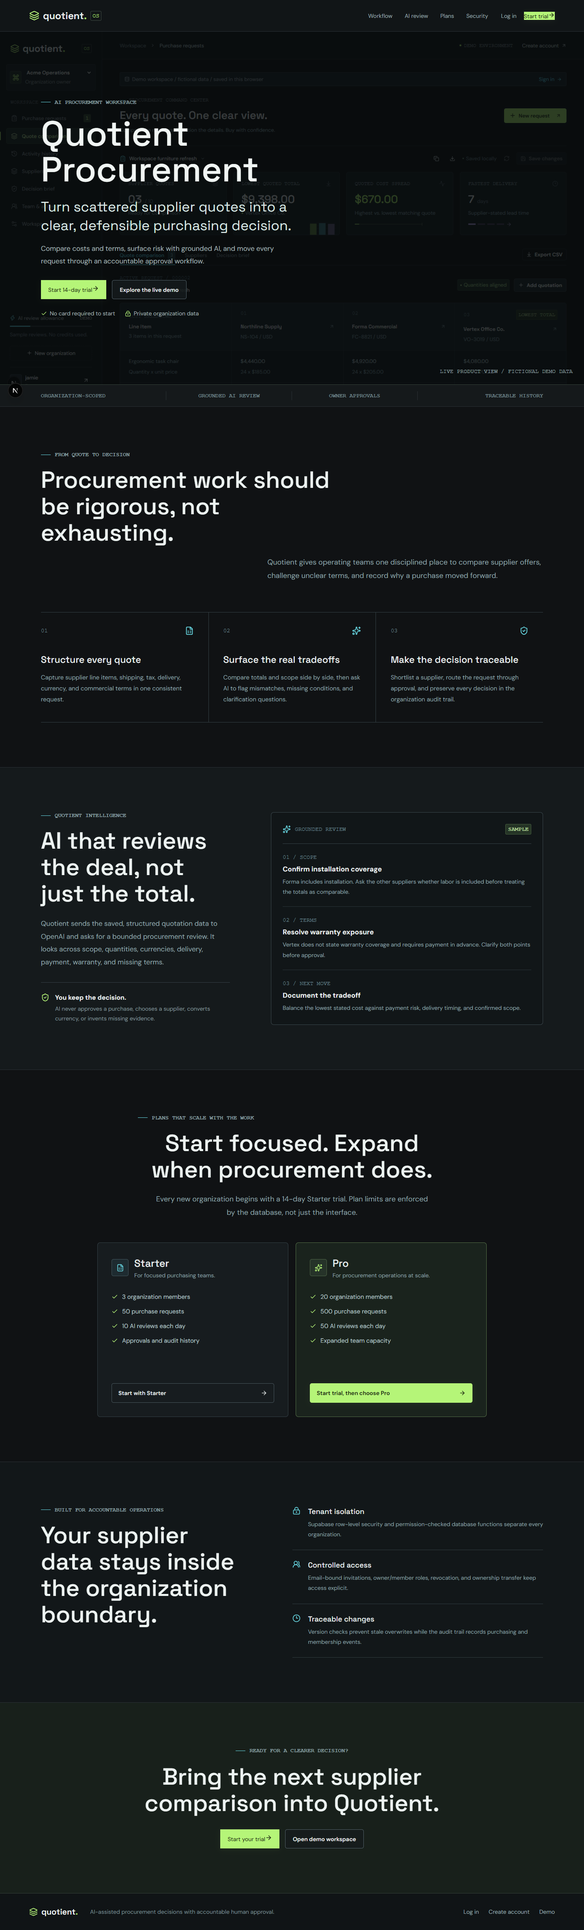
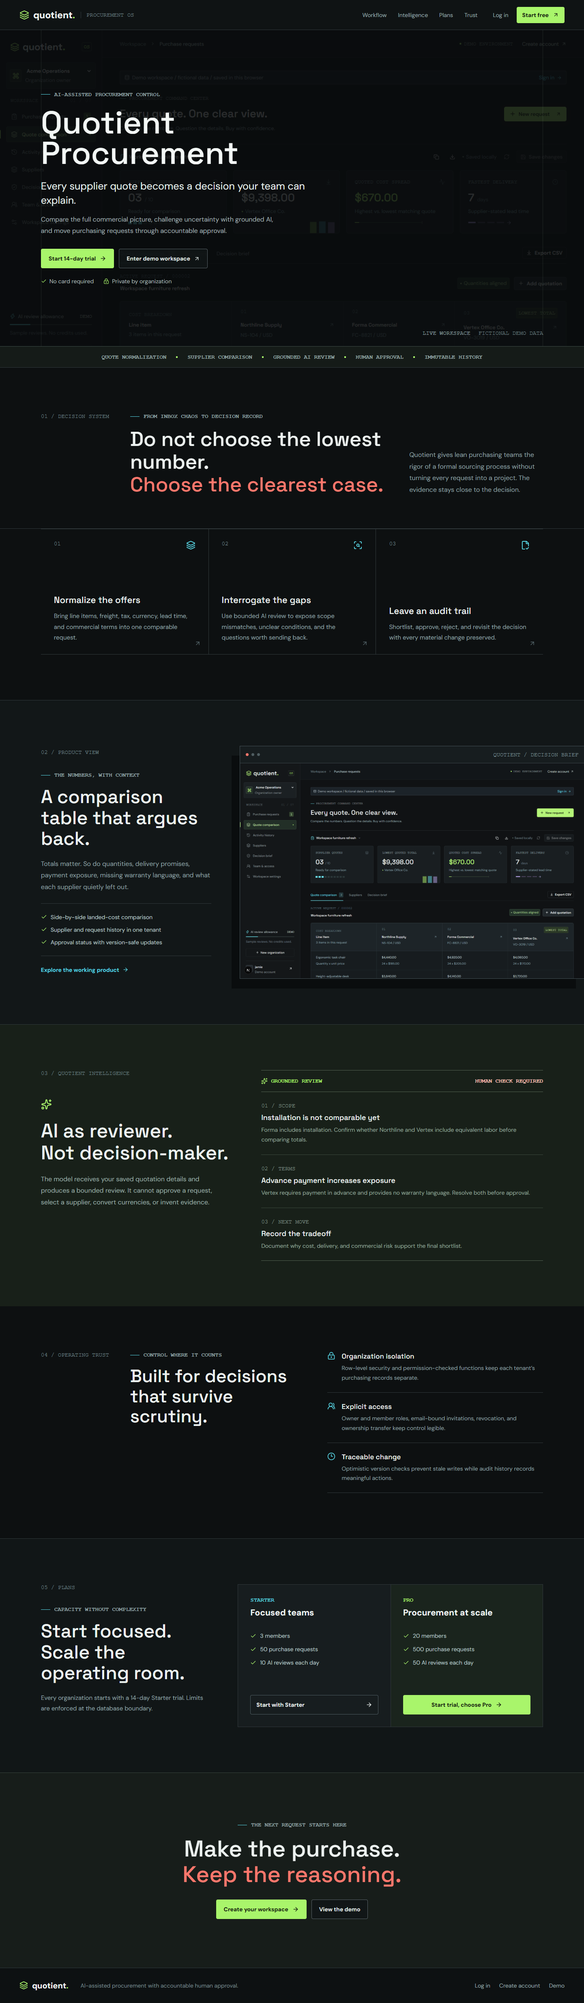
fix

diff --git a/app/style.css b/app/style.css
@@ -22,4 +22,16 @@ dialog{width:calc(100% - 32px);max-width:700px;max-height:90dvh;overflow:auto;bo
  button,input,select,textarea,label,small,.eyebrow,.brand-tag,.brand-mark,.org-selector select,.org-selector small,.nav-label,.nav-label>span,.sidebar nav button,.mobile-drawer nav button,.sidebar nav b,.mobile-drawer nav b,.quota-line,.quota-line b,.sidebar-bottom>p,.new-org,.avatar,.avatar.compact,.account-row strong,.account-row small,.breadcrumbs,.live-indicator,.top-link,.demo-banner,.page-subtitle,.page-heading>.primary,.request-selector select,.save-status,.save-button,.metric-label,.metric>small,.metric>strong>span,.section-tabs>button,.section-tabs>button>span,.section-bar>.subtle,.comparison-heading .eyebrow,.comparison-heading button,.badge,.table-eyebrow,th:first-child>strong,th small,.best,.supplier-index>span:first-child,.supplier-link,td,td small,td:first-child>strong,.cost-row>td,.total-row>td:first-child,.terms-cell,.missing,.shortlist,.table-note,.ai-section-heading .eyebrow,.ai-model,.ai-button,.ai-checks>div>span,.ai-checks h3,.ai-checks p,.ai-output,.review-disclaimer,.provider-disclosure,.app-footer,.list-heading h2 span,.search-field input,.supplier-list h3,.member-list h3,.supplier-list small,.member-list small,.decision-section p:not(.eyebrow),.decision-section .subtle,.section-description,.access-note h3,.access-note p,.settings-list>div,.settings-list dd.mono,.settings-actions button,.empty-state p,.empty-state>.eyebrow,.alert,.busy-status,.modal-heading .eyebrow,.file-button,.hint,.item-head,.item-input input,.modal-footer,.modal-footer>.primary,.invite-links,.text-link,.auth-kicker,.auth-subtitle,.auth-tabs a,.auth-form>label,.auth-fields>label,.input-icon input,.forgot,.auth-submit,.auth-security,.back-link,.connection-note,.auth-footer,.auth-footer>span:last-child,.resend-button,.recovery-link,.status-filter,.status-filter select,.request-list small,.approval-panel p,.approval-panel blockquote,.approval-actions button,.audit-trail strong,.audit-trail p,.audit-trail small,.pending-invitations article strong,.pending-invitations small,.account-settings form>label,.account-settings form>.text-link,.member-list article>.subtle,.directory-toolbar>small,.billing-banner,.plan-title p,.plan-card li,.billing-meta{font-size:14px!important}
  .sidebar{width:280px}.app-main{margin-left:280px;width:calc(100% - 280px)}.sidebar nav button.nav-active:before{left:-18px}.sidebar-bottom{padding-top:30px}.org-selector{margin-top:26px;margin-bottom:24px}.account-row{align-items:flex-start}.topbar{min-height:76px;height:auto;padding-top:12px;padding-bottom:12px}.table-wrap table{min-width:960px}.badge,.best,.ai-model{white-space:normal;line-height:1.35}.app-footer{line-height:1.5}
 }
+
+/* Public homepage */
+.lp{--lp-bg:#0d1011;--lp-panel:#14191b;--lp-line:#30383b;--lp-muted:#91a1a5;--lp-lime:#a9f56b;--lp-cyan:#58d8e7;--lp-coral:#ff776c;background:var(--lp-bg);color:#edf3f1;min-height:100vh;overflow:hidden}.lp a{text-decoration:none}.lp-nav{height:74px;display:flex;align-items:center;padding:0 48px;border-bottom:1px solid var(--lp-line);background:#0f1314;position:relative;z-index:5}.lp-brand{display:flex;align-items:center;gap:10px;color:#f4f8f7}.lp-brand>svg{color:var(--lp-lime)}.lp-brand strong{font-size:23px}.lp-brand strong span{color:var(--lp-lime)}.lp-brand small{font:14px 'Courier New',monospace;color:#718287;border-left:1px solid var(--lp-line);padding-left:13px;margin-left:4px}.lp-links{display:flex;gap:28px;margin-left:auto}.lp-links a,.lp-nav-actions>a:first-child{font-size:14px;color:#9aabad}.lp-links a:hover,.lp-nav-actions>a:first-child:hover{color:#f5f8f7}.lp-nav-actions{display:flex;align-items:center;gap:20px;margin-left:38px}.lp-button{display:inline-flex;align-items:center;justify-content:center;gap:10px;min-height:48px;padding:12px 18px;border:1px solid var(--lp-lime);border-radius:4px;background:var(--lp-lime);color:#10170c;font-size:14px;font-weight:700}.lp-button:hover{background:#baff83}.lp-button-small{min-height:40px;padding:9px 13px}.lp-ghost{display:inline-flex;align-items:center;justify-content:center;gap:9px;min-height:48px;padding:12px 18px;border:1px solid #576166;border-radius:4px;background:#101516d9;color:#e3ebea;font-size:14px;font-weight:650}.lp-ghost:hover{color:var(--lp-cyan);border-color:var(--lp-cyan)}
+.lp-hero{height:calc(100svh - 116px);min-height:620px;max-height:780px;position:relative;display:flex;align-items:center;padding:54px max(48px,7vw);background:url('/quotient-workspace.png') center top/cover no-repeat;border-bottom:1px solid #3c4944}.lp-hero-shade{position:absolute;inset:0;background:#080b0cd9}.lp-hero-grid{position:absolute;inset:0 max(48px,7vw);border-left:1px solid #9bb6ab24;border-right:1px solid #9bb6ab24;pointer-events:none}.lp-hero-copy{position:relative;z-index:1;width:690px;max-width:72%}.lp-overline{display:flex;align-items:center;gap:10px;color:#98aaad;font:600 14px 'Courier New',monospace}.lp-overline>span{width:23px;height:1px;background:var(--lp-cyan)}.lp-hero h1{font-size:78px;line-height:.96;letter-spacing:0;color:#f3f8f6;margin-top:24px}.lp-manifesto{font-size:25px;line-height:1.4;color:#e4eeeb;margin-top:27px;max-width:660px}.lp-support{font-size:16px;line-height:1.75;color:#a2b2b5;margin-top:16px;max-width:590px}.lp-actions{display:flex;align-items:center;gap:12px;flex-wrap:wrap;margin-top:30px}.lp-hero-notes{display:flex;gap:24px;flex-wrap:wrap;margin-top:23px}.lp-hero-notes span{display:flex;align-items:center;gap:7px;color:#a7b7b7;font-size:14px}.lp-hero-notes svg{color:var(--lp-lime)}.lp-hero-caption{position:absolute;z-index:1;right:max(48px,7vw);bottom:24px;display:flex;gap:20px;font:14px 'Courier New',monospace;color:#95a7a9}.lp-hero-caption span+span{color:#6f8084}.lp-ticker{height:52px;display:flex;align-items:center;justify-content:center;gap:24px;padding:0 30px;background:#151b18;border-bottom:1px solid var(--lp-line);white-space:nowrap;overflow:hidden}.lp-ticker span{font:600 14px 'Courier New',monospace;color:#9badac}.lp-ticker i{width:4px;height:4px;background:var(--lp-lime)}
+.lp-section-index{font:14px 'Courier New',monospace;color:#71858a}.lp-statement{display:grid;grid-template-columns:170px minmax(0,1fr) 330px;gap:50px;padding:112px max(48px,7vw) 80px;border-bottom:1px solid var(--lp-line)}.lp-statement h2,.lp-product h2,.lp-intelligence h2,.lp-proof h2,.lp-pricing h2,.lp-close h2{font-size:50px;line-height:1.12;letter-spacing:0;margin-top:20px}.lp h2 em{font-style:normal;color:var(--lp-coral)}.lp-statement>p:last-child{align-self:end;font-size:16px;line-height:1.8;color:var(--lp-muted)}.lp-decisions{display:grid;grid-template-columns:repeat(3,1fr);padding:0 max(48px,7vw) 112px}.lp-decisions article{min-height:310px;position:relative;display:flex;flex-direction:column;justify-content:space-between;padding:28px 32px;border-bottom:1px solid var(--lp-line);border-top:1px solid var(--lp-line)}.lp-decisions article+article{border-left:1px solid var(--lp-line)}.lp-decision-head{display:flex;justify-content:space-between;color:#73888d;font:14px 'Courier New',monospace}.lp-decision-head svg{color:var(--lp-cyan)}.lp-decisions h3{font-size:22px}.lp-decisions p{font-size:15px;line-height:1.75;color:var(--lp-muted);margin-top:13px;max-width:360px}.lp-corner{position:absolute;right:18px;bottom:18px;color:#526267}
+.lp-product{display:grid;grid-template-columns:420px minmax(0,1fr);gap:70px;padding:112px 0 112px max(48px,7vw);border-top:1px solid var(--lp-line);border-bottom:1px solid var(--lp-line);background:#121718}.lp-product-copy{padding-top:8px}.lp-product-copy>.lp-overline{margin-top:40px}.lp-product h2{font-size:46px}.lp-product-copy>p:not(.lp-overline){font-size:16px;line-height:1.8;color:var(--lp-muted);margin-top:22px}.lp-product ul{list-style:none;padding:24px 0;margin:25px 0;border-top:1px solid var(--lp-line);border-bottom:1px solid var(--lp-line);display:grid;gap:13px}.lp-product li{display:flex;align-items:center;gap:9px;font-size:14px;color:#bdc9c9}.lp-product li svg{color:var(--lp-lime)}.lp-text-link{display:inline-flex;align-items:center;gap:8px;color:var(--lp-cyan);font-size:14px;font-weight:650}.lp-product-window{align-self:center;overflow:hidden;border:1px solid #445055;border-right:0;background:#0b0e0f;box-shadow:-20px 24px 0 #0a0d0e}.lp-window-bar{height:42px;display:flex;align-items:center;gap:7px;padding:0 14px;border-bottom:1px solid #394347;background:#171d1f}.lp-window-bar>span{width:7px;height:7px;border-radius:50%;background:#4f5d61}.lp-window-bar>span:first-child{background:var(--lp-coral)}.lp-window-bar b{margin-left:auto;font:14px 'Courier New',monospace;color:#7d9196}.lp-product-window img{display:block;width:100%;height:auto;min-height:420px;object-fit:cover;object-position:left top}
+.lp-intelligence{display:grid;grid-template-columns:minmax(320px,.8fr) minmax(520px,1.2fr);gap:80px;padding:112px max(48px,7vw);background:#182019}.lp-ai-lead>svg{color:var(--lp-lime);margin-top:55px}.lp-ai-lead h2{font-size:48px;margin-top:21px}.lp-ai-lead>p{font-size:16px;line-height:1.8;color:#9fb0aa;margin-top:24px;max-width:520px}.lp-review{border-top:1px solid #526151;border-bottom:1px solid #526151}.lp-review-top{display:flex;align-items:center;justify-content:space-between;padding:18px 0;border-bottom:1px solid #526151}.lp-review-top span{display:flex;align-items:center;gap:8px;font:600 14px 'Courier New',monospace;color:var(--lp-lime)}.lp-review-top b{font:600 14px 'Courier New',monospace;color:#ffc0ba}.lp-review article{padding:24px 0;border-bottom:1px solid #39473b}.lp-review article:last-child{border:0}.lp-review article>span{font:14px 'Courier New',monospace;color:#80958a}.lp-review h3{font-size:18px;margin-top:9px}.lp-review p{font-size:14px;line-height:1.7;color:#96a89f;margin-top:8px}
+.lp-proof{display:grid;grid-template-columns:170px minmax(0,.9fr) minmax(400px,1.1fr);gap:50px;padding:112px max(48px,7vw);border-bottom:1px solid var(--lp-line)}.lp-proof-title h2{font-size:44px}.lp-proof-list article{display:flex;gap:16px;padding:23px 0;border-bottom:1px solid var(--lp-line)}.lp-proof-list article:first-child{padding-top:0}.lp-proof-list svg{color:var(--lp-cyan);flex-shrink:0}.lp-proof-list h3{font-size:17px}.lp-proof-list p{font-size:14px;line-height:1.7;color:var(--lp-muted);margin-top:7px}
+.lp-pricing{display:grid;grid-template-columns:minmax(330px,.7fr) minmax(540px,1.3fr);gap:80px;padding:112px max(48px,7vw);background:#111617}.lp-pricing-head>.lp-overline{margin-top:38px}.lp-pricing h2{font-size:46px}.lp-pricing-head>p:last-child{font-size:15px;line-height:1.75;color:var(--lp-muted);margin-top:22px;max-width:460px}.lp-price-grid{display:grid;grid-template-columns:1fr 1fr;border:1px solid var(--lp-line)}.lp-price-grid article{display:flex;flex-direction:column;padding:30px;min-height:350px;background:#171d1f}.lp-price-grid article+article{border-left:1px solid var(--lp-line)}.lp-price-grid .lp-price-pro{background:#1a241d}.lp-price-name span{display:block;font:600 14px 'Courier New',monospace;color:var(--lp-cyan)}.lp-price-pro .lp-price-name span{color:var(--lp-lime)}.lp-price-name strong{display:block;font-size:21px;margin-top:9px}.lp-price-grid ul{list-style:none;padding:0;margin:34px 0;display:grid;gap:15px}.lp-price-grid li{display:flex;align-items:center;gap:9px;color:#b9c7c7;font-size:14px}.lp-price-grid li svg{color:var(--lp-lime)}.lp-plan-link{display:flex;align-items:center;justify-content:space-between;min-height:48px;padding:12px 14px;margin-top:auto;border:1px solid #4c5a5f;border-radius:4px;font-size:14px;font-weight:650}.lp-plan-link:hover{color:var(--lp-cyan);border-color:var(--lp-cyan)}.lp-price-grid .lp-button{margin-top:auto}
+.lp-close{text-align:center;padding:120px 24px;background:#171d1a;border-top:1px solid #37433b}.lp-close .lp-overline{justify-content:center}.lp-close h2{font-size:56px}.lp-close .lp-actions{justify-content:center}.lp-footer{display:flex;align-items:center;gap:30px;padding:30px 48px;border-top:1px solid var(--lp-line);background:#0d1112}.lp-footer .lp-brand strong{font-size:20px}.lp-footer p{flex:1;color:#7d8e92;font-size:14px}.lp-footer>div{display:flex;gap:22px}.lp-footer>div a{font-size:14px;color:#9aabad}.lp-footer>div a:hover{color:var(--lp-cyan)}
+@media(max-width:1000px){.lp-nav{padding:0 24px}.lp-links{display:none}.lp-nav-actions{margin-left:auto}.lp-hero{padding-left:40px;padding-right:40px}.lp-hero-grid{left:40px;right:40px}.lp-hero-copy{max-width:86%}.lp-statement{grid-template-columns:130px 1fr}.lp-statement>p:last-child{grid-column:2}.lp-product{grid-template-columns:1fr;padding-right:40px;padding-left:40px}.lp-product-copy{max-width:680px}.lp-product-window{border-right:1px solid #445055}.lp-intelligence,.lp-pricing{grid-template-columns:1fr}.lp-proof{grid-template-columns:130px 1fr}.lp-proof-list{grid-column:2}.lp-ticker{justify-content:flex-start}.lp-decisions{padding-left:40px;padding-right:40px}.lp-pricing,.lp-intelligence,.lp-proof,.lp-statement{padding-left:40px;padding-right:40px}}
+@media(max-width:700px){.lp-nav{height:68px;padding:0 18px}.lp-brand small,.lp-nav-actions>a:first-child{display:none}.lp-brand strong{font-size:21px}.lp-button-small{min-height:38px;padding:8px 11px}.lp-hero{height:690px;min-height:calc(100svh - 106px);padding:42px 20px;background-position:28% top}.lp-hero-shade{background:#080b0ce8}.lp-hero-grid{inset:0 20px}.lp-hero-copy{max-width:100%;width:100%}.lp-hero h1{font-size:49px}.lp-manifesto{font-size:21px}.lp-support{font-size:15px}.lp-actions{align-items:stretch;flex-direction:column}.lp-actions a{width:100%}.lp-hero-notes{gap:10px;flex-direction:column}.lp-hero-caption{display:none}.lp-ticker{height:46px;padding:0 20px;gap:18px}.lp-statement,.lp-proof{grid-template-columns:1fr;padding:76px 20px;gap:30px}.lp-statement>p:last-child,.lp-proof-list{grid-column:1}.lp-statement h2,.lp-product h2,.lp-intelligence h2,.lp-proof h2,.lp-pricing h2,.lp-close h2{font-size:34px}.lp-decisions{grid-template-columns:1fr;padding:0 20px 76px}.lp-decisions article{min-height:240px;padding:25px 0}.lp-decisions article+article{border-left:0;border-top:0}.lp-product{padding:76px 20px;gap:48px}.lp-product h2{font-size:34px}.lp-product-window{box-shadow:none}.lp-product-window img{min-height:300px;width:820px;max-width:none}.lp-window-bar b{display:none}.lp-intelligence,.lp-pricing{padding:76px 20px;gap:50px}.lp-ai-lead h2{font-size:36px}.lp-ai-lead>svg{margin-top:36px}.lp-review-top{align-items:flex-start;gap:12px;flex-direction:column}.lp-price-grid{grid-template-columns:1fr}.lp-price-grid article+article{border-left:0;border-top:1px solid var(--lp-line)}.lp-proof{padding-bottom:76px}.lp-close{padding:80px 20px}.lp-close h2{font-size:39px}.lp-footer{align-items:flex-start;flex-wrap:wrap;padding:28px 20px}.lp-footer p{order:3;flex-basis:100%}.lp-footer>div{margin-left:auto;flex-wrap:wrap}}
 .billing-banner{display:flex;align-items:center;justify-content:space-between;gap:16px;margin-bottom:24px;padding:12px 14px;border:1px solid #715338;border-radius:5px;background:#30271f;color:#e4c398;font-size:11px}.billing-banner>span,.billing-banner>button{display:flex;align-items:center;gap:8px}.billing-banner>button{border:0;background:transparent;color:var(--cyan);padding:4px;min-height:28px}.billing-panel{border-top:1px solid var(--line);margin-top:35px;padding-top:30px}.billing-heading{display:flex;align-items:flex-start;justify-content:space-between;gap:20px}.billing-heading h2{font-size:22px;margin-top:9px}.plan-grid{display:grid;grid-template-columns:repeat(2,minmax(0,1fr));gap:14px;margin-top:24px}.plan-card{display:flex;flex-direction:column;min-height:260px;padding:22px;border:1px solid #303b40;border-radius:6px;background:#171c1f}.plan-card.current-plan{border-color:#52684a;background:#1b241e}.plan-title{display:flex;gap:13px;align-items:flex-start}.plan-icon{display:grid;place-items:center;width:36px;height:36px;flex:0 0 36px;border:1px solid #3b5159;border-radius:5px;background:#1e2c32;color:var(--cyan)}.current-plan .plan-icon{border-color:#496043;background:#263529;color:var(--lime)}.plan-title h3{font-size:17px}.plan-title p{font-size:11px;color:#8199a3;line-height:1.7;margin-top:5px}.plan-card ul{display:grid;gap:11px;padding:0;margin:23px 0;list-style:none}.plan-card li{display:flex;align-items:center;gap:9px;color:#a9bbc1;font-size:11px}.plan-card li svg{color:var(--lime);flex-shrink:0}.plan-card>button{margin-top:auto;width:100%}.billing-meta{display:flex;justify-content:space-between;gap:14px;margin-top:14px;color:#7d959f;font-size:10px;line-height:1.7}.billing-meta span:last-child{text-align:right}@media(max-width:760px){.billing-banner{align-items:flex-start;flex-direction:column}.plan-grid{grid-template-columns:1fr}.billing-heading{flex-wrap:wrap}.billing-heading h2{font-size:20px}.plan-card{min-height:240px}.billing-meta{flex-direction:column}.billing-meta span:last-child{text-align:left}}

diff --git a/app/page.tsx b/app/page.tsx
@@ -1,30 +1,23 @@
 import Link from 'next/link';
-import {ArrowRight,Check,Clock3,FileSpreadsheet,Layers3,LockKeyhole,ShieldCheck,Sparkles,UsersRound} from 'lucide-react';
+import {ArrowRight,ArrowUpRight,Check,Clock3,FileCheck2,Layers3,LockKeyhole,ScanSearch,Sparkles,UsersRound} from 'lucide-react';
 
-const workflow=[
- {number:'01',title:'Structure every quote',copy:'Capture supplier line items, shipping, tax, delivery, currency, and commercial terms in one consistent request.',icon:FileSpreadsheet},
- {number:'02',title:'Surface the real tradeoffs',copy:'Compare totals and scope side by side, then ask AI to flag mismatches, missing conditions, and clarification questions.',icon:Sparkles},
- {number:'03',title:'Make the decision traceable',copy:'Shortlist a supplier, route the request through approval, and preserve every decision in the organization audit trail.',icon:ShieldCheck}
+const decisions=[
+ {index:'01',title:'Normalize the offers',copy:'Bring line items, freight, tax, currency, lead time, and commercial terms into one comparable request.',icon:Layers3},
+ {index:'02',title:'Interrogate the gaps',copy:'Use bounded AI review to expose scope mismatches, unclear conditions, and the questions worth sending back.',icon:ScanSearch},
+ {index:'03',title:'Leave an audit trail',copy:'Shortlist, approve, reject, and revisit the decision with every material change preserved.',icon:FileCheck2}
 ];
-const starter=['3 organization members','50 purchase requests','10 AI reviews each day','Approvals and audit history'];
-const pro=['20 organization members','500 purchase requests','50 AI reviews each day','Expanded team capacity'];
+const plans={starter:['3 members','50 purchase requests','10 AI reviews each day'],pro:['20 members','500 purchase requests','50 AI reviews each day']};
 
-export default function Page(){return <main className="home-page">
- <nav className="home-nav" aria-label="Public navigation"><Link className="brand" href="/"><Layers3 size={25}/><span>quotient<span className="brand-period">.</span></span><span className="brand-tag">OS</span></Link><div className="home-nav-links"><a href="#workflow">Workflow</a><a href="#intelligence">AI review</a><a href="#plans">Plans</a><a href="#security">Security</a></div><div className="home-nav-actions"><Link className="home-login" href="/login">Log in</Link><Link className="primary" href="/signup">Start trial<ArrowRight size={16}/></Link></div></nav>
-
- <section className="home-hero" aria-labelledby="home-title"><div className="home-hero-scrim"/><div className="home-hero-content"><p className="home-kicker"><span/>AI PROCUREMENT WORKSPACE</p><h1 id="home-title">Quotient Procurement</h1><p className="home-hero-lead">Turn scattered supplier quotes into a clear, defensible purchasing decision.</p><p className="home-hero-copy">Compare costs and terms, surface risk with grounded AI, and move every request through an accountable approval workflow.</p><div className="home-hero-actions"><Link className="primary home-primary" href="/signup">Start 14-day trial<ArrowRight size={17}/></Link><Link className="home-secondary" href="/demo">Explore the live demo</Link></div><div className="home-hero-proof"><span><Check size={15}/>No card required to start</span><span><LockKeyhole size={15}/>Private organization data</span></div></div><p className="home-screenshot-label">LIVE PRODUCT VIEW / FICTIONAL DEMO DATA</p></section>
-
- <section className="home-signal" aria-label="Product principles"><span>ORGANIZATION-SCOPED</span><span>GROUNDED AI REVIEW</span><span>OWNER APPROVALS</span><span>TRACEABLE HISTORY</span></section>
-
- <section className="home-section home-intro" id="workflow"><div className="home-section-heading"><p className="home-kicker"><span/>FROM QUOTE TO DECISION</p><h2>Procurement work should be rigorous, not exhausting.</h2></div><p className="home-section-lead">Quotient gives operating teams one disciplined place to compare supplier offers, challenge unclear terms, and record why a purchase moved forward.</p><div className="home-workflow">{workflow.map(step=><article key={step.number}><div className="home-step-top"><span>{step.number}</span><step.icon size={22}/></div><h3>{step.title}</h3><p>{step.copy}</p></article>)}</div></section>
-
- <section className="home-ai" id="intelligence"><div className="home-ai-copy"><p className="home-kicker"><span/>QUOTIENT INTELLIGENCE</p><h2>AI that reviews the deal, not just the total.</h2><p>Quotient sends the saved, structured quotation data to OpenAI and asks for a bounded procurement review. It looks across scope, quantities, currencies, delivery, payment, warranty, and missing terms.</p><div className="home-ai-boundary"><ShieldCheck size={21}/><div><strong>You keep the decision.</strong><span>AI never approves a purchase, chooses a supplier, converts currency, or invents missing evidence.</span></div></div></div><div className="home-review-example" aria-label="Example AI review"><div className="home-review-heading"><Sparkles size={20}/><span>GROUNDED REVIEW</span><b>SAMPLE</b></div><div><span>01 / SCOPE</span><strong>Confirm installation coverage</strong><p>Forma includes installation. Ask the other suppliers whether labor is included before treating the totals as comparable.</p></div><div><span>02 / TERMS</span><strong>Resolve warranty exposure</strong><p>Vertex does not state warranty coverage and requires payment in advance. Clarify both points before approval.</p></div><div><span>03 / NEXT MOVE</span><strong>Document the tradeoff</strong><p>Balance the lowest stated cost against payment risk, delivery timing, and confirmed scope.</p></div></div></section>
-
- <section className="home-section home-plans" id="plans"><div className="home-section-heading"><p className="home-kicker"><span/>PLANS THAT SCALE WITH THE WORK</p><h2>Start focused. Expand when procurement does.</h2></div><p className="home-section-lead">Every new organization begins with a 14-day Starter trial. Plan limits are enforced by the database, not just the interface.</p><div className="home-plan-grid"><article><div className="home-plan-name"><span><FileSpreadsheet size={19}/></span><div><h3>Starter</h3><p>For focused purchasing teams.</p></div></div><ul>{starter.map(item=><li key={item}><Check size={16}/>{item}</li>)}</ul><Link className="home-plan-action" href="/signup">Start with Starter<ArrowRight size={16}/></Link></article><article className="home-plan-featured"><div className="home-plan-name"><span><Sparkles size={19}/></span><div><h3>Pro</h3><p>For procurement operations at scale.</p></div></div><ul>{pro.map(item=><li key={item}><Check size={16}/>{item}</li>)}</ul><Link className="primary home-plan-action" href="/signup">Start trial, then choose Pro<ArrowRight size={16}/></Link></article></div></section>
-
- <section className="home-security" id="security"><div><p className="home-kicker"><span/>BUILT FOR ACCOUNTABLE OPERATIONS</p><h2>Your supplier data stays inside the organization boundary.</h2></div><div className="home-security-points"><article><LockKeyhole size={20}/><div><h3>Tenant isolation</h3><p>Supabase row-level security and permission-checked database functions separate every organization.</p></div></article><article><UsersRound size={20}/><div><h3>Controlled access</h3><p>Email-bound invitations, owner/member roles, revocation, and ownership transfer keep access explicit.</p></div></article><article><Clock3 size={20}/><div><h3>Traceable changes</h3><p>Version checks prevent stale overwrites while the audit trail records purchasing and membership events.</p></div></article></div></section>
-
- <section className="home-final"><p className="home-kicker"><span/>READY FOR A CLEARER DECISION?</p><h2>Bring the next supplier comparison into Quotient.</h2><div><Link className="primary home-primary" href="/signup">Start your trial<ArrowRight size={17}/></Link><Link className="home-secondary" href="/demo">Open demo workspace</Link></div></section>
-
- <footer className="home-footer"><Link className="brand" href="/"><Layers3 size={21}/><span>quotient<span className="brand-period">.</span></span></Link><p>AI-assisted procurement decisions with accountable human approval.</p><div><Link href="/login">Log in</Link><Link href="/signup">Create account</Link><Link href="/demo">Demo</Link></div></footer>
+export default function Page(){return <main className="lp">
+ <nav className="lp-nav" aria-label="Public navigation"><Link className="lp-brand" href="/"><Layers3 size={24}/><strong>quotient<span>.</span></strong><small>PROCUREMENT OS</small></Link><div className="lp-links"><a href="#workflow">Workflow</a><a href="#intelligence">Intelligence</a><a href="#plans">Plans</a><a href="#trust">Trust</a></div><div className="lp-nav-actions"><Link href="/login">Log in</Link><Link className="lp-button lp-button-small" href="/signup">Start free<ArrowUpRight size={15}/></Link></div></nav>
+ <section className="lp-hero" aria-labelledby="lp-title"><div className="lp-hero-shade"/><div className="lp-hero-grid"/><div className="lp-hero-copy"><p className="lp-overline"><span/>AI-ASSISTED PROCUREMENT CONTROL</p><h1 id="lp-title">Quotient<br/>Procurement</h1><p className="lp-manifesto">Every supplier quote becomes a decision your team can explain.</p><p className="lp-support">Compare the full commercial picture, challenge uncertainty with grounded AI, and move purchasing requests through accountable approval.</p><div className="lp-actions"><Link className="lp-button" href="/signup">Start 14-day trial<ArrowRight size={16}/></Link><Link className="lp-ghost" href="/demo">Enter demo workspace<ArrowUpRight size={15}/></Link></div><div className="lp-hero-notes"><span><Check size={14}/>No card required</span><span><LockKeyhole size={14}/>Private by organization</span></div></div><div className="lp-hero-caption"><span>LIVE WORKSPACE</span><span>FICTIONAL DEMO DATA</span></div></section>
+ <section className="lp-ticker" aria-label="Product capabilities"><span>QUOTE NORMALIZATION</span><i/><span>SUPPLIER COMPARISON</span><i/><span>GROUNDED AI REVIEW</span><i/><span>HUMAN APPROVAL</span><i/><span>IMMUTABLE HISTORY</span></section>
+ <section className="lp-statement" id="workflow"><div className="lp-section-index">01 / DECISION SYSTEM</div><div><p className="lp-overline"><span/>FROM INBOX CHAOS TO DECISION RECORD</p><h2>Do not choose the lowest number.<br/><em>Choose the clearest case.</em></h2></div><p>Quotient gives lean purchasing teams the rigor of a formal sourcing process without turning every request into a project. The evidence stays close to the decision.</p></section>
+ <section className="lp-decisions">{decisions.map(step=><article key={step.index}><div className="lp-decision-head"><span>{step.index}</span><step.icon size={23}/></div><div><h3>{step.title}</h3><p>{step.copy}</p></div><ArrowUpRight className="lp-corner" size={17}/></article>)}</section>
+ <section className="lp-product" id="intelligence"><div className="lp-product-copy"><div className="lp-section-index">02 / PRODUCT VIEW</div><p className="lp-overline"><span/>THE NUMBERS, WITH CONTEXT</p><h2>A comparison table that argues back.</h2><p>Totals matter. So do quantities, delivery promises, payment exposure, missing warranty language, and what each supplier quietly left out.</p><ul><li><Check size={15}/>Side-by-side landed-cost comparison</li><li><Check size={15}/>Supplier and request history in one tenant</li><li><Check size={15}/>Approval status with version-safe updates</li></ul><Link className="lp-text-link" href="/demo">Explore the working product<ArrowRight size={15}/></Link></div><div className="lp-product-window"><div className="lp-window-bar"><span/><span/><span/><b>QUOTIENT / DECISION BRIEF</b></div><img src="/quotient-workspace.png" alt="Quotient supplier quotation comparison workspace"/></div></section>
+ <section className="lp-intelligence"><div className="lp-ai-lead"><div className="lp-section-index">03 / QUOTIENT INTELLIGENCE</div><Sparkles size={27}/><h2>AI as reviewer.<br/>Not decision-maker.</h2><p>The model receives your saved quotation details and produces a bounded review. It cannot approve a request, select a supplier, convert currencies, or invent evidence.</p></div><div className="lp-review"><div className="lp-review-top"><span><Sparkles size={16}/>GROUNDED REVIEW</span><b>HUMAN CHECK REQUIRED</b></div><article><span>01 / SCOPE</span><h3>Installation is not comparable yet</h3><p>Forma includes installation. Confirm whether Northline and Vertex include equivalent labor before comparing totals.</p></article><article><span>02 / TERMS</span><h3>Advance payment increases exposure</h3><p>Vertex requires payment in advance and provides no warranty language. Resolve both before approval.</p></article><article><span>03 / NEXT MOVE</span><h3>Record the tradeoff</h3><p>Document why cost, delivery, and commercial risk support the final shortlist.</p></article></div></section>
+ <section className="lp-proof" id="trust"><div className="lp-section-index">04 / OPERATING TRUST</div><div className="lp-proof-title"><p className="lp-overline"><span/>CONTROL WHERE IT COUNTS</p><h2>Built for decisions that survive scrutiny.</h2></div><div className="lp-proof-list"><article><LockKeyhole size={20}/><div><h3>Organization isolation</h3><p>Row-level security and permission-checked functions keep each tenant’s purchasing records separate.</p></div></article><article><UsersRound size={20}/><div><h3>Explicit access</h3><p>Owner and member roles, email-bound invitations, revocation, and ownership transfer keep control legible.</p></div></article><article><Clock3 size={20}/><div><h3>Traceable change</h3><p>Optimistic version checks prevent stale writes while audit history records meaningful actions.</p></div></article></div></section>
+ <section className="lp-pricing" id="plans"><div className="lp-pricing-head"><div className="lp-section-index">05 / PLANS</div><p className="lp-overline"><span/>CAPACITY WITHOUT COMPLEXITY</p><h2>Start focused.<br/>Scale the operating room.</h2><p>Every organization starts with a 14-day Starter trial. Limits are enforced at the database boundary.</p></div><div className="lp-price-grid"><article><div className="lp-price-name"><span>STARTER</span><strong>Focused teams</strong></div><ul>{plans.starter.map(item=><li key={item}><Check size={15}/>{item}</li>)}</ul><Link className="lp-plan-link" href="/signup">Start with Starter<ArrowRight size={16}/></Link></article><article className="lp-price-pro"><div className="lp-price-name"><span>PRO</span><strong>Procurement at scale</strong></div><ul>{plans.pro.map(item=><li key={item}><Check size={15}/>{item}</li>)}</ul><Link className="lp-button" href="/signup">Start trial, choose Pro<ArrowRight size={16}/></Link></article></div></section>
+ <section className="lp-close"><p className="lp-overline"><span/>THE NEXT REQUEST STARTS HERE</p><h2>Make the purchase.<br/><em>Keep the reasoning.</em></h2><div className="lp-actions"><Link className="lp-button" href="/signup">Create your workspace<ArrowRight size={16}/></Link><Link className="lp-ghost" href="/demo">View the demo</Link></div></section>
+ <footer className="lp-footer"><Link className="lp-brand" href="/"><Layers3 size={21}/><strong>quotient<span>.</span></strong></Link><p>AI-assisted procurement with accountable human approval.</p><div><Link href="/login">Log in</Link><Link href="/signup">Create account</Link><Link href="/demo">Demo</Link></div></footer>
  </main>}
